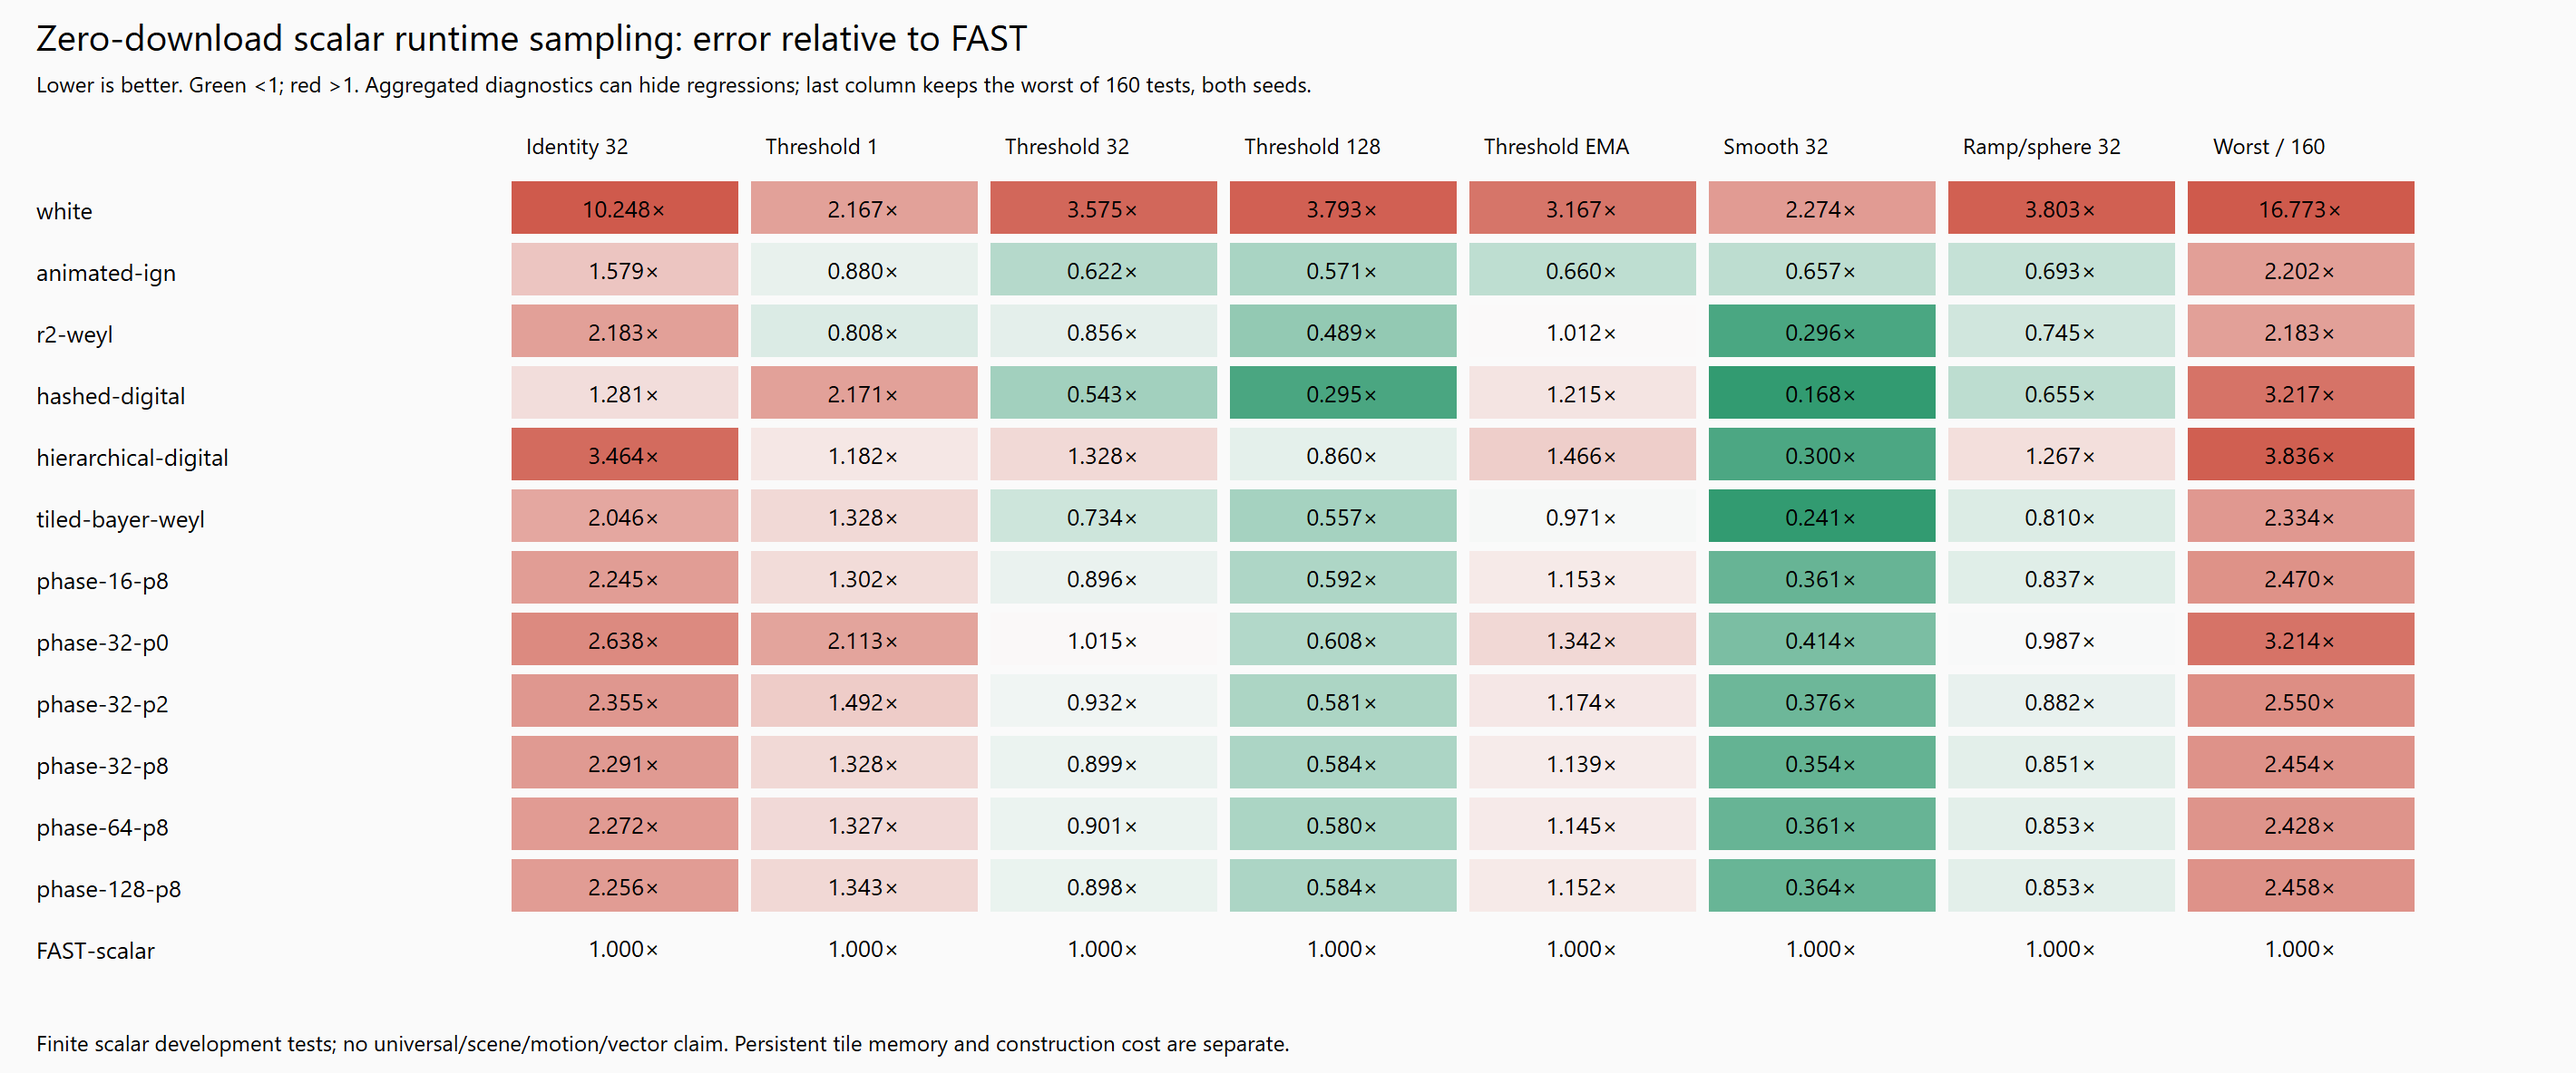
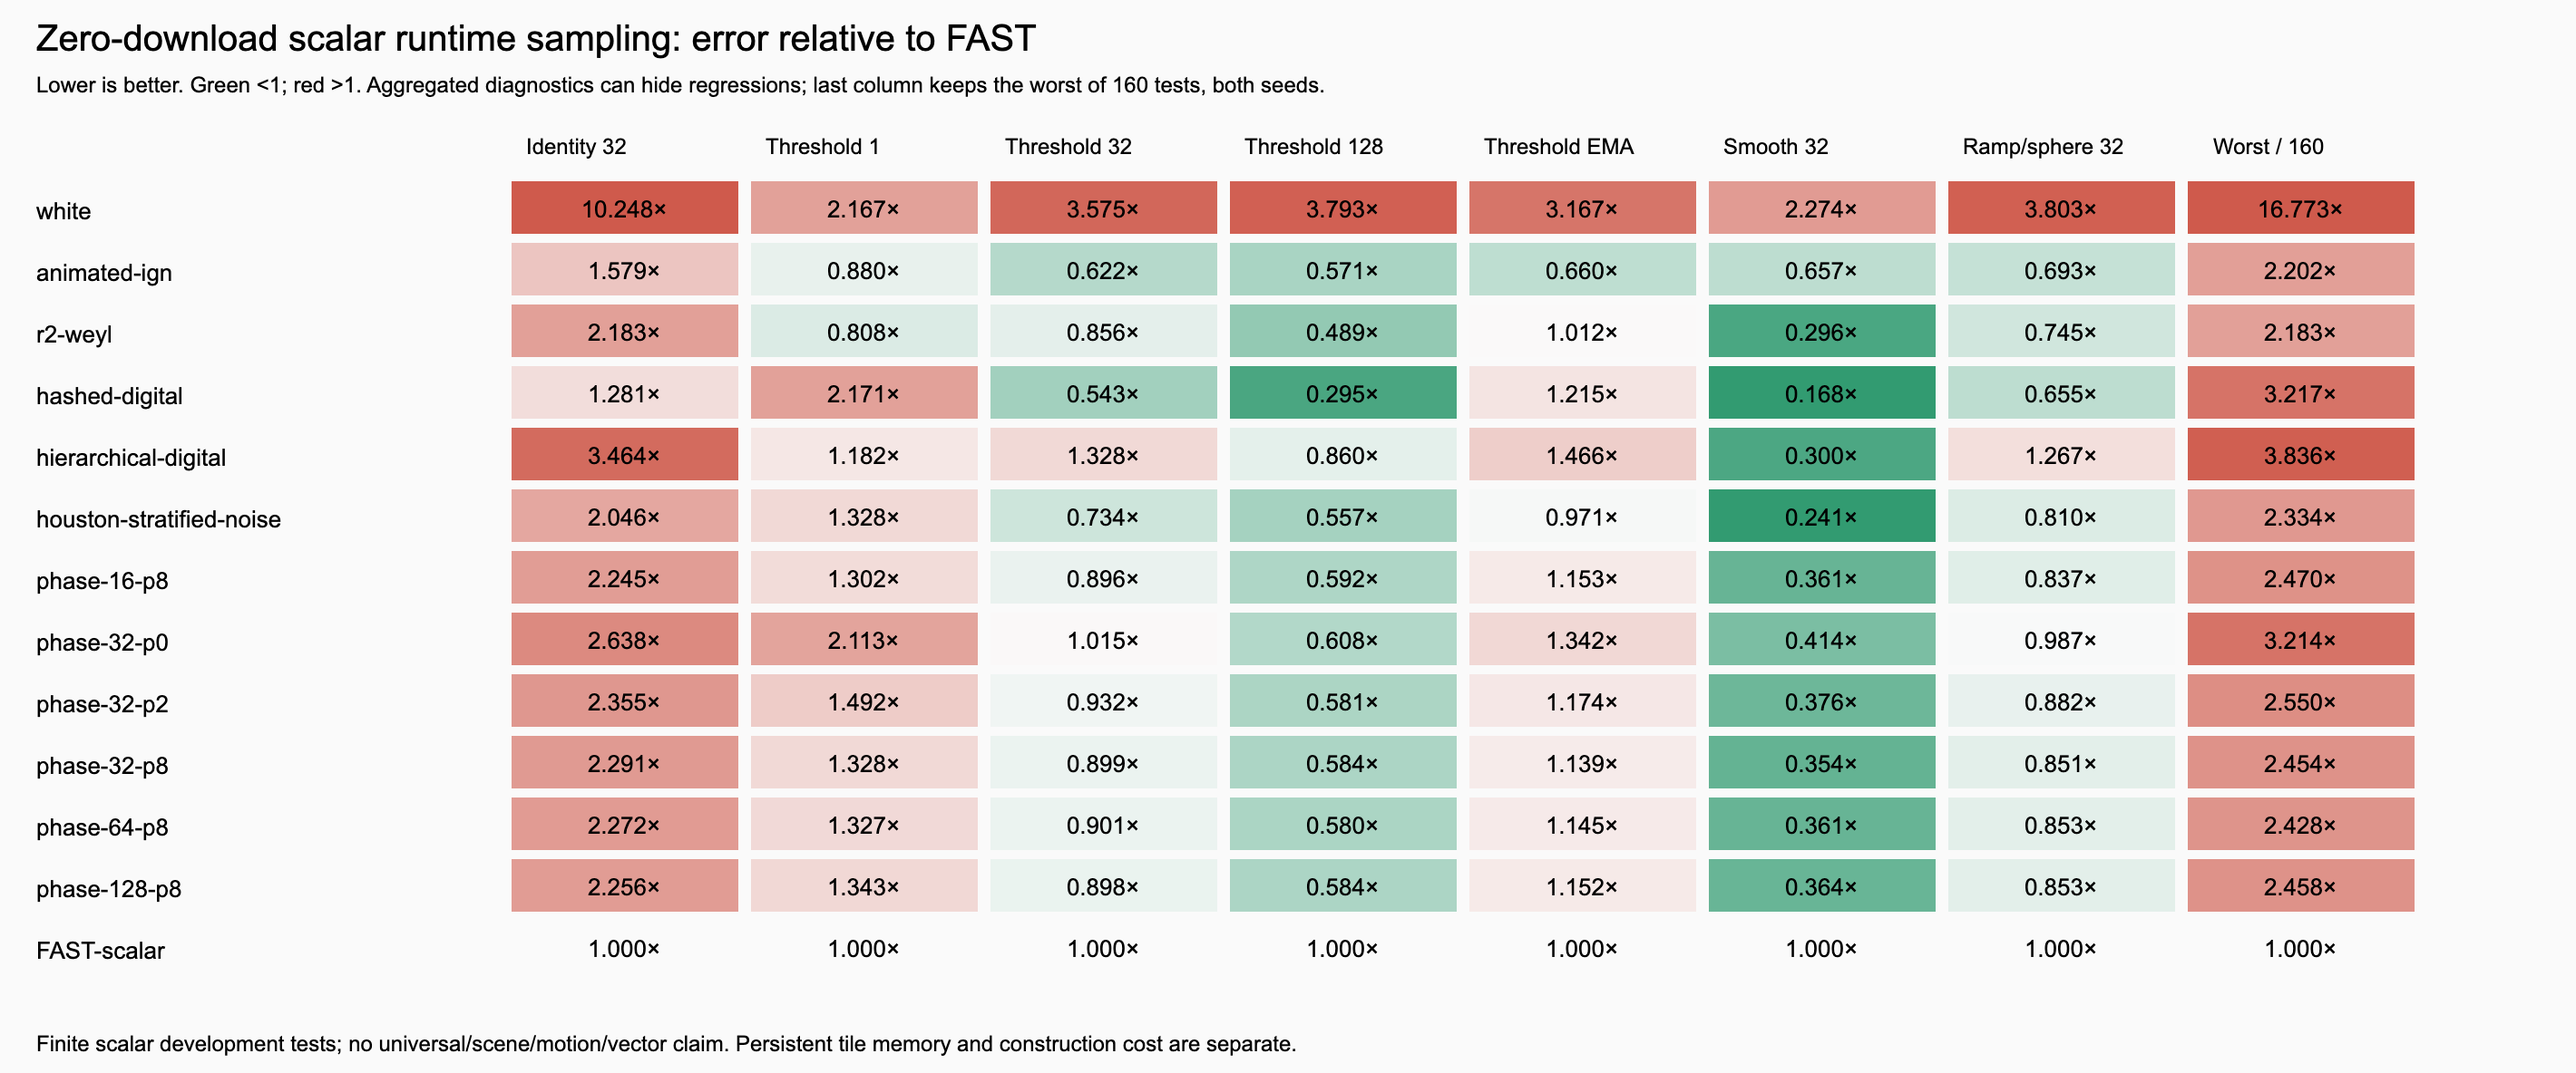
Name the three-level hierarchy + Weyl sampler Houston Stratified Noise and give each dimension its own R2/R4 step

diff --git a/utils/fastnoise/runtime/procedural.js b/utils/fastnoise/runtime/procedural.js
@@ -80,11 +80,17 @@ export function hierarchicalDigital( x, y, frame, seed = 1 ) {
 
 }
 
-export function tiledBayerWeyl( x, y, frame, seed = 1 ) {
+// Houston Stratified Noise (HSN): scrambled 8x8 hierarchical ranks, a hashed tile phase and a Weyl
+// temporal step. For several dimensions give each its own seed and step (R2_STEPS / R4_STEPS); with a
+// shared step a pixel's samples stay on one diagonal line over time and stop converging.
+export const R2_STEPS = [ 3242174889, 2447445413 ];
+export const R4_STEPS = [ 3679390609, 3152041523, 2700274805, 2313257605 ];
+
+export function houstonStratifiedNoise( x, y, frame, seed = 1, step = 2654435769 ) {
 
 	const rank = spatialRank( x, y, seed, 3 );
 	const tileShift = pixelHash( x >> 3, y >> 3, seed ^ 0x02e5be93 );
-	return ( ( rank + tileShift + Math.imul( frame, 2654435769 ) ) >>> 8 ) / 16777216;
+	return ( ( rank + tileShift + Math.imul( frame, step ) ) >>> 8 ) / 16777216;
 
 }
 
@@ -94,7 +100,7 @@ export const proceduralSamplers = {
 	'r2-weyl': r2Weyl,
 	'hashed-digital': hashedDigital,
 	'hierarchical-digital': hierarchicalDigital,
-	'tiled-bayer-weyl': tiledBayerWeyl
+	'houston-stratified-noise': houstonStratifiedNoise
 };
 
 const wgslHelpers = /* wgsl */`
@@ -119,7 +125,7 @@ const wgslBodies = {
 	'r2-weyl': 'return unit(x*3242174889u+y*2447445414u+frame*2654435769u+hash(seed));',
 	'hashed-digital': 'return unit(reverseBits(frame)^pixelHash(x,y,seed));',
 	'hierarchical-digital': 'return unit(spatialRank(x,y,seed,8u)^(pixelHash(x,y,seed^0x68bc21ebu)&0xffffu)^reverseBits(frame));',
-	'tiled-bayer-weyl': 'return unit(spatialRank(x,y,seed,3u)+pixelHash(x>>3u,y>>3u,seed^0x02e5be93u)+frame*2654435769u);'
+	'houston-stratified-noise': 'return unit(spatialRank(x,y,seed,3u)+pixelHash(x>>3u,y>>3u,seed^0x02e5be93u)+frame*2654435769u);'
 };
 
 export const proceduralWGSL = Object.fromEntries( Object.entries( wgslBodies ).map( ( [ name, body ] ) => [ name, `${wgslHelpers}\nfn sample(x:u32,y:u32,frame:u32,seed:u32)->f32 { ${body} }` ] ) );

diff --git a/utils/fastnoise/runtime/chart.js b/utils/fastnoise/runtime/chart.js
@@ -8,7 +8,7 @@ import { wgslSamplers } from './procedural.js';
 const root = new URL( './', import.meta.url );
 const report = JSON.parse( fs.readFileSync( new URL( 'results.json', root ) ) );
 const gpu = JSON.parse( fs.readFileSync( new URL( 'gpu-results.json', root ) ) );
-const ids = [ 'white', 'animated-ign', 'r2-weyl', 'hashed-digital', 'hierarchical-digital', 'tiled-bayer-weyl', 'phase-16-p8', 'phase-32-p0', 'phase-32-p2', 'phase-32-p8', 'phase-64-p8', 'phase-128-p8', 'FAST-scalar' ];
+const ids = [ 'white', 'animated-ign', 'r2-weyl', 'hashed-digital', 'hierarchical-digital', 'houston-stratified-noise', 'phase-16-p8', 'phase-32-p0', 'phase-32-p2', 'phase-32-p8', 'phase-64-p8', 'phase-128-p8', 'FAST-scalar' ];
 const thresholds = [ .1, .25, .5, .75, .9, .07, .37, .83, .94 ].map( p => 'threshold-' + p );
 const smooth = [ 'squared', 'fourth', 'cosine', 'sine7' ];
 const rms = values => Math.sqrt( values.reduce( ( sum, v ) => sum + v * v, 0 ) / values.length );

diff --git a/utils/fastnoise/runtime/multidim.py b/utils/fastnoise/runtime/multidim.py
@@ -1,0 +1,112 @@
+"""Two-dimensional Houston Stratified Noise (HSN): a shared temporal step vs. per-dimension R2/R4 steps.
+
+Bit-exact uint32 port of procedural.js. Scores 14 known 2D integrals (step edges, including the exact
+diagonals, plus smooth functions) per pixel over time, after a sigma-1 blur, and under an alpha .1 EMA.
+Usage: python utils/fastnoise/runtime/multidim.py
+"""
+import numpy as np
+
+N = 64  # 64x64 pixels = 64 aligned 8x8 tiles
+U32 = np.uint32
+y, x = np.mgrid[0:N, 0:N].astype(U32)
+
+
+def hash_u(v):
+	v = v.astype(U32)
+	v = (v ^ (v >> U32(16))) * U32(0x21f0aaad)
+	v = (v ^ (v >> U32(15))) * U32(0x735a2d97)
+	return v ^ (v >> U32(15))
+
+
+def pixel_hash(px, py, seed):
+	return hash_u((px * U32(0x9e3779b1)) ^ (py * U32(0x85ebca77)) ^ U32(seed))
+
+
+def hsn_spatial(seed):
+	rank = np.zeros((N, N), U32)
+	for level in range(3):
+		scr = pixel_hash(x >> U32(level + 1), y >> U32(level + 1), (seed ^ ((level + 1) * 0x632be5ab)) & 0xffffffff)
+		a = (x >> U32(level)) & U32(1)
+		b = (y >> U32(level)) & U32(1)
+		low = np.where((scr & U32(4)) != 0, a, b)
+		rank |= ((((a ^ b) << U32(1)) | low) ^ (scr & U32(3))) << U32(30 - 2 * level)
+	return rank + pixel_hash(x >> U32(3), y >> U32(3), seed ^ 0x02e5be93)
+
+
+def unit(bits):
+	return (bits >> U32(8)).astype(np.float64) / 16777216.0
+
+
+GOLDEN = 2654435769
+R2_STEPS = [3242174889, 2447445413]
+R4_STEPS = [3679390609, 3152041523, 2700274805, 2313257605]
+
+
+def hsn_pair(steps, seeds=(1, 2)):
+	spatial = [hsn_spatial(s) for s in seeds]
+	return lambda i: tuple(unit(spatial[k] + U32((i * steps[k]) & 0xffffffff)) for k in range(2))
+
+
+def ign(px, py):
+	return np.mod(52.9829189 * np.mod(px * 0.06711056 + py * 0.00583715, 1.0), 1.0)
+
+
+def ign_offset_pair(i):  # second dimension = IGN at a fixed pixel offset, as three.js VXGI did
+	px, py = x + 0.5 + i * 5.588238, y + 0.5 + i * 5.588238
+	return ign(px, py), ign(px + 5.588238, py + 3.14159)
+
+
+rng = np.random.default_rng(3)
+METHODS = {
+	'White': lambda i: (rng.random((N, N)), rng.random((N, N))),
+	'Animated IGN, offset second dimension': ign_offset_pair,
+	'HSN, shared golden step': hsn_pair([GOLDEN, GOLDEN]),
+	'HSN, R2 steps': hsn_pair(R2_STEPS),
+}
+for a, b in [(0, 1), (2, 3), (0, 2), (1, 3), (0, 3), (1, 2)]:
+	METHODS[f'HSN, R4 steps (dimensions {a}, {b})'] = hsn_pair([R4_STEPS[a], R4_STEPS[b]])
+
+edges = [(1, -1, 0.0), (1, 1, 1.0), (1, -1, 0.3)] + [(np.cos(t), np.sin(t), c) for t, c in zip(rng.uniform(0, np.pi, 9), rng.uniform(-0.3, 1.0, 9))]
+TESTS = [(lambda u, v, e=e: (e[0] * u + e[1] * v < e[2]).astype(float)) for e in edges]
+TESTS += [lambda u, v: np.exp(-((u - 0.3) ** 2 + (v - 0.6) ** 2) / 0.05), lambda u, v: np.cos(2 * np.pi * u) * np.cos(2 * np.pi * v) * 0.5 + 0.5]
+g = (np.arange(1024) + 0.5) / 1024
+GU, GV = np.meshgrid(g, g)
+TRUTH = [f(GU, GV).mean() for f in TESTS]
+
+kernel = np.exp(-0.5 * np.arange(-3, 4) ** 2)
+kernel /= kernel.sum()
+
+
+def blur(a):
+	a = sum(w * np.roll(a, s, 0) for w, s in zip(kernel, range(-3, 4)))
+	return sum(w * np.roll(a, s, 1) for w, s in zip(kernel, range(-3, 4)))
+
+
+def rmse(values):
+	return np.mean([np.sqrt(np.mean((v - t) ** 2)) for v, t in zip(values, TRUTH)]) * 1e3
+
+
+SAMPLES = [4, 16, 64, 256]
+print('| Method | ' + ' | '.join(f'Per pixel, {n}' for n in SAMPLES) + ' | Blurred, 1 frame | EMA, blurred | EMA frame delta |')
+print('| --- |' + ' ---: |' * (len(SAMPLES) + 3))
+for name, generate in METHODS.items():
+	acc = [np.zeros((N, N)) for _ in TESTS]
+	ema = [None] * len(TESTS)
+	per_pixel, ema_err, delta, previous, first = {}, [], [], None, None
+	for i in range(256):
+		u, v = generate(i)
+		current = []
+		for t, f in enumerate(TESTS):
+			value = f(u, v)
+			acc[t] += value
+			ema[t] = value if ema[t] is None else ema[t] + 0.1 * (value - ema[t])
+			current.append(ema[t].copy())
+		if i == 0:
+			first = rmse([blur(a) for a in acc])
+		if i + 1 in SAMPLES:
+			per_pixel[i + 1] = rmse([a / (i + 1) for a in acc])
+		if i >= 128:
+			ema_err.append(rmse([blur(c) for c in current]))
+			delta.append(np.mean([np.sqrt(np.mean((c - p) ** 2)) for c, p in zip(current, previous)]) * 1e3)
+		previous = current
+	print(f'| {name} | ' + ' | '.join(f'{per_pixel[n]:.2f}' for n in SAMPLES) + f' | {first:.2f} | {np.mean(ema_err):.2f} | {np.mean(delta):.2f} |')

diff --git a/utils/fastnoise/runtime/RUNTIME.md b/utils/fastnoise/runtime/RUNTIME.md
@@ -6,7 +6,7 @@ original image is 3,025,821 bytes and contains vector and scalar channels. A
 procedural sampler or a tiny startup-generated phase tile removes that image
 request entirely.
 
-**My leading prototype is `tiled-bayer-weyl`: zero texture bytes, no startup
+**My leading prototype is Houston Stratified Noise (`houston-stratified-noise`, HSN): zero texture bytes, no startup
 solve, and useful threshold/EMA behavior.** It trades some single-frame quality
 for much smaller construction/storage cost. A 32x32 generated phase tile is a
 useful alternative when a texture-like integration is easier. Neither is a
@@ -53,7 +53,7 @@ CPU arithmetic. Full data retain every attempted profile and every regression.
 | Animated IGN, continuous translation | none / 0 | .880 / .622 / .660 | Strong directional spectra; long-running float-coordinate precision requires another strategy |
 | Fixed-point R2 + Weyl | none / 0 | .808 / .856 / 1.012 | Minimal arithmetic, pronounced ordered spectral peaks |
 | Hashed digital temporal sequence | none / 0 | 2.171 / .543 / 1.215 | Strong box-average stratification; spatially hash-like at one frame |
-| Three-level tiled hierarchy + Weyl | none / 0 | 1.328 / .734 / .971 | Leading balanced code-only prototype; single-frame and some individual tests regress |
+| Houston Stratified Noise (HSN): three-level tiled hierarchy + Weyl | none / 0 | 1.328 / .734 / .971 | Leading balanced code-only prototype; single-frame and some individual tests regress |
 | Generated 16x16 phase tile, 8 passes | .461 ms warm / 1 KiB | 1.302 / .896 / 1.153 | Very small; 16-pixel repetition |
 | Generated 32x32 phase tile, 8 passes | 1.778 ms warm / 4 KiB | 1.328 / .899 / 1.139 | Easy small-texture integration; 32-pixel repetition |
 | Generated 64x64 phase tile, 8 passes | 7.272 ms warm / 16 KiB | 1.327 / .901 / 1.145 | Little measured quality gain over size32 |
@@ -65,21 +65,21 @@ results and each candidate's worst individual ratio.
 
 ![Runtime alternatives and retained regressions](summary.png)
 
-The three-level hybrid's 32-frame ramp/sphere error is .810x FAST. Its worst
+HSN's 32-frame ramp/sphere error is .810x FAST. Its worst
 individual error is **2.334x FAST**, despite the favorable aggregate thresholds.
 The phase32 method's threshold EMA error is 14% above FAST but 64% below white.
 Thus useful benefits survive at tiny cost, with material quality tradeoffs.
 
 Spectra explain why the simpler winners deserve care. The largest Fourier bin
 contains about **24.6%** of averaged threshold-mask power for R2 and **17.8%**
-for IGN, versus **0.014%** for FAST. The three-level hybrid is about **0.044%**,
+for IGN, versus **0.014%** for FAST. HSN is about **0.044%**,
 and phase32 about **0.49–0.68%**. This diagnostic is computed at threshold .5
 over 32 frames after per-frame DC removal; it measures concentrated peaks,
 not a universal quality score. A low raw-value variance can hide such structure.
 
 ## Recommendations
 
-1. **First integration candidate to investigate: the three-level hybrid.**
+1. **First integration candidate to investigate: Houston Stratified Noise (HSN).**
    `procedural.js` exports matching CPU and WGSL functions. It scrambles local
    8x8 hierarchical ranks, gives each tile a hashed circular phase, and advances
    time with a fixed-point Weyl rotation. The WGSL module is about 411 gzip
@@ -106,7 +106,7 @@ choices: their excellent filtered raw-value averages conceal threshold and
 nonlinear losses. Cached threshold energy, annealing and FAST refinements have
 startup costs far outside this goal. Cheap hierarchy remains worth considering
 for ordered dithering; the deeper eight-level digital prototype in this round
-lost to the three-level hybrid on the main threshold/EMA diagnostics.
+lost to HSN on the main threshold/EMA diagnostics.
 
 For a texture-based Three.js integration, phases can be uploaded directly:
 
@@ -122,6 +122,38 @@ Decode the phase directly; it is a float, not an 8-bit noise midpoint. Add
 Integer arithmetic wraps at 2^32 frames, avoiding a growing float multiply.
 The arithmetic prototypes likewise ship WGSL; a public TSL API and scene-level
 default selection would be a follow-up integration decision.
+
+## Multiple dimensions
+
+Effects often need several values per pixel, such as a GGX direction pair or cone rotation and
+elevation. Giving each dimension its own HSN seed decorrelates them spatially, but a **shared**
+golden-ratio step moves every dimension by the same amount each frame. Over time a pixel's samples
+then stay on one diagonal line in the unit square and stop converging, which showed up as grain in a
+VXGI light map bake. The fix is a separate temporal step per dimension from the R2 (two values) or
+R4 (four values) generalized golden ratio sequences; `procedural.js` exports `R2_STEPS` and
+`R4_STEPS`. The spatial pattern is unchanged.
+
+Per-pixel RMSE ×1e-3 over 14 known 2D integrals, 64×64 pixels (`multidim.py`):
+
+| Method | Per pixel, 16 | Per pixel, 256 | Blurred, 1 frame | EMA, blurred |
+| --- | ---: | ---: | ---: | ---: |
+| White | 77.92 | 19.29 | 88.74 | 20.06 |
+| Animated IGN, offset second dimension | 106.86 | 89.95 | 102.41 | 90.13 |
+| HSN, shared golden step | 92.79 | 84.20 | 71.59 | 31.66 |
+| **HSN, R2 steps** | **42.40** | **4.08** | 71.59 | **11.29** |
+| HSN, R4 steps, worst pair | 45.57 | 12.08 | 71.59 | 12.27 |
+
+Offset copies of IGN are not independent dimensions either: the second value is nearly a constant
+shift of the first. Pairing the dimensions within each tile (bit-reversed ranks) was also tried; it
+nearly doubled single-frame error, so it was dropped.
+
+## Three.js adoption
+
+[bhouston/three.js#121](https://github.com/bhouston/three.js/pull/121) uses HSN with R2 steps for
+VXGI cone rotation and elevation and with R4 steps for SSR and its denoiser. On hardware WebGPU
+against dev, the VXGI light map bake at 64 samples has 52% lower RMSE and 13% less texel grain, real-time
+VXGI has 23% lower RMSE (with 7% more flicker), and SSR has 4–5% lower flicker, RMSE and bias. GTAO
+and SSGI kept their existing schedules, which measured better there.
 
 ## Cost and evidence limits
 
@@ -161,6 +193,7 @@ python utils/fastnoise/runtime/check-ema.py
 node utils/fastnoise/runtime/verify-streams.js runtime-data runtime-gpu-data
 node utils/fastnoise/runtime/check.js
 node utils/fastnoise/runtime/chart.js
+python utils/fastnoise/runtime/multidim.py
 ```
 
 Use a fresh score JSON after any protocol change. Cache entries use stream

diff --git a/utils/fastnoise/runtime/PROCEDURAL.md b/utils/fastnoise/runtime/PROCEDURAL.md
@@ -6,7 +6,7 @@
 * **r2-weyl**: fixed-point R2 spatial lattice plus a golden-ratio temporal rotation and seeded phase. Highly structured low discrepancy, rather than isotropic blue noise.
 * **hashed-digital**: reverse the frame bits and XOR with a pixel hash. Each pixel has stratified aligned power-of-two temporal prefixes, but the spatial distribution is hash noise. A useful control separating temporal discrepancy from spatial spectrum.
 * **hierarchical-digital** (experiment): recursively affine-permute each quadtree parent's four children, pack fine-to-coarse child ranks, add hashed low bits, then XOR a common bit-reversed frame. At a fixed frame, every aligned 2^k square up to 256 contains every leading 2k-bit rank. The global temporal XOR preserves these strata. Tests must check shifted windows, arbitrary thresholds, anisotropy and moving/reprojected histories: aligned-stratum guarantees alone do not establish general rendering quality.
-* **tiled-bayer-weyl** (experiment): use three scrambled quadtree levels (8x8 local stratification), an independently hashed tile phase, and a global golden temporal rotation. This trades global ordered patterns for tile boundaries and inter-tile phase noise. No tuned weights or scene-specific objective are used.
+* **houston-stratified-noise** (experiment): use three scrambled quadtree levels (8x8 local stratification), an independently hashed tile phase, and a global golden temporal rotation. This trades global ordered patterns for tile boundaries and inter-tile phase noise. No tuned weights or scene-specific objective are used.
 
 Inputs are integer pixel coordinates, uint32 frame and uint32 seed. Integer
 methods retain the top 24 bits for an exactly representable f32 result below

diff --git a/utils/fastnoise/runtime/SUMMARY.md b/utils/fastnoise/runtime/SUMMARY.md
@@ -9,7 +9,7 @@ All entries are RMSE ratios to the shipped FAST scalar B reference; lower is bet
 | r2-weyl | 2.183 | 0.808 | 0.856 | 0.489 | 1.012 | 0.296 | 0.745 | 2.183 |
 | hashed-digital | 1.281 | 2.171 | 0.543 | 0.295 | 1.215 | 0.168 | 0.655 | 3.217 |
 | hierarchical-digital | 3.464 | 1.182 | 1.328 | 0.860 | 1.466 | 0.300 | 1.267 | 3.836 |
-| tiled-bayer-weyl | 2.046 | 1.328 | 0.734 | 0.557 | 0.971 | 0.241 | 0.810 | 2.334 |
+| houston-stratified-noise | 2.046 | 1.328 | 0.734 | 0.557 | 0.971 | 0.241 | 0.810 | 2.334 |
 | phase-16-p8 | 2.245 | 1.302 | 0.896 | 0.592 | 1.153 | 0.361 | 0.837 | 2.470 |
 | phase-32-p0 | 2.638 | 2.113 | 1.015 | 0.608 | 1.342 | 0.414 | 0.987 | 3.214 |
 | phase-32-p2 | 2.355 | 1.492 | 0.932 | 0.581 | 1.174 | 0.376 | 0.882 | 2.550 |
